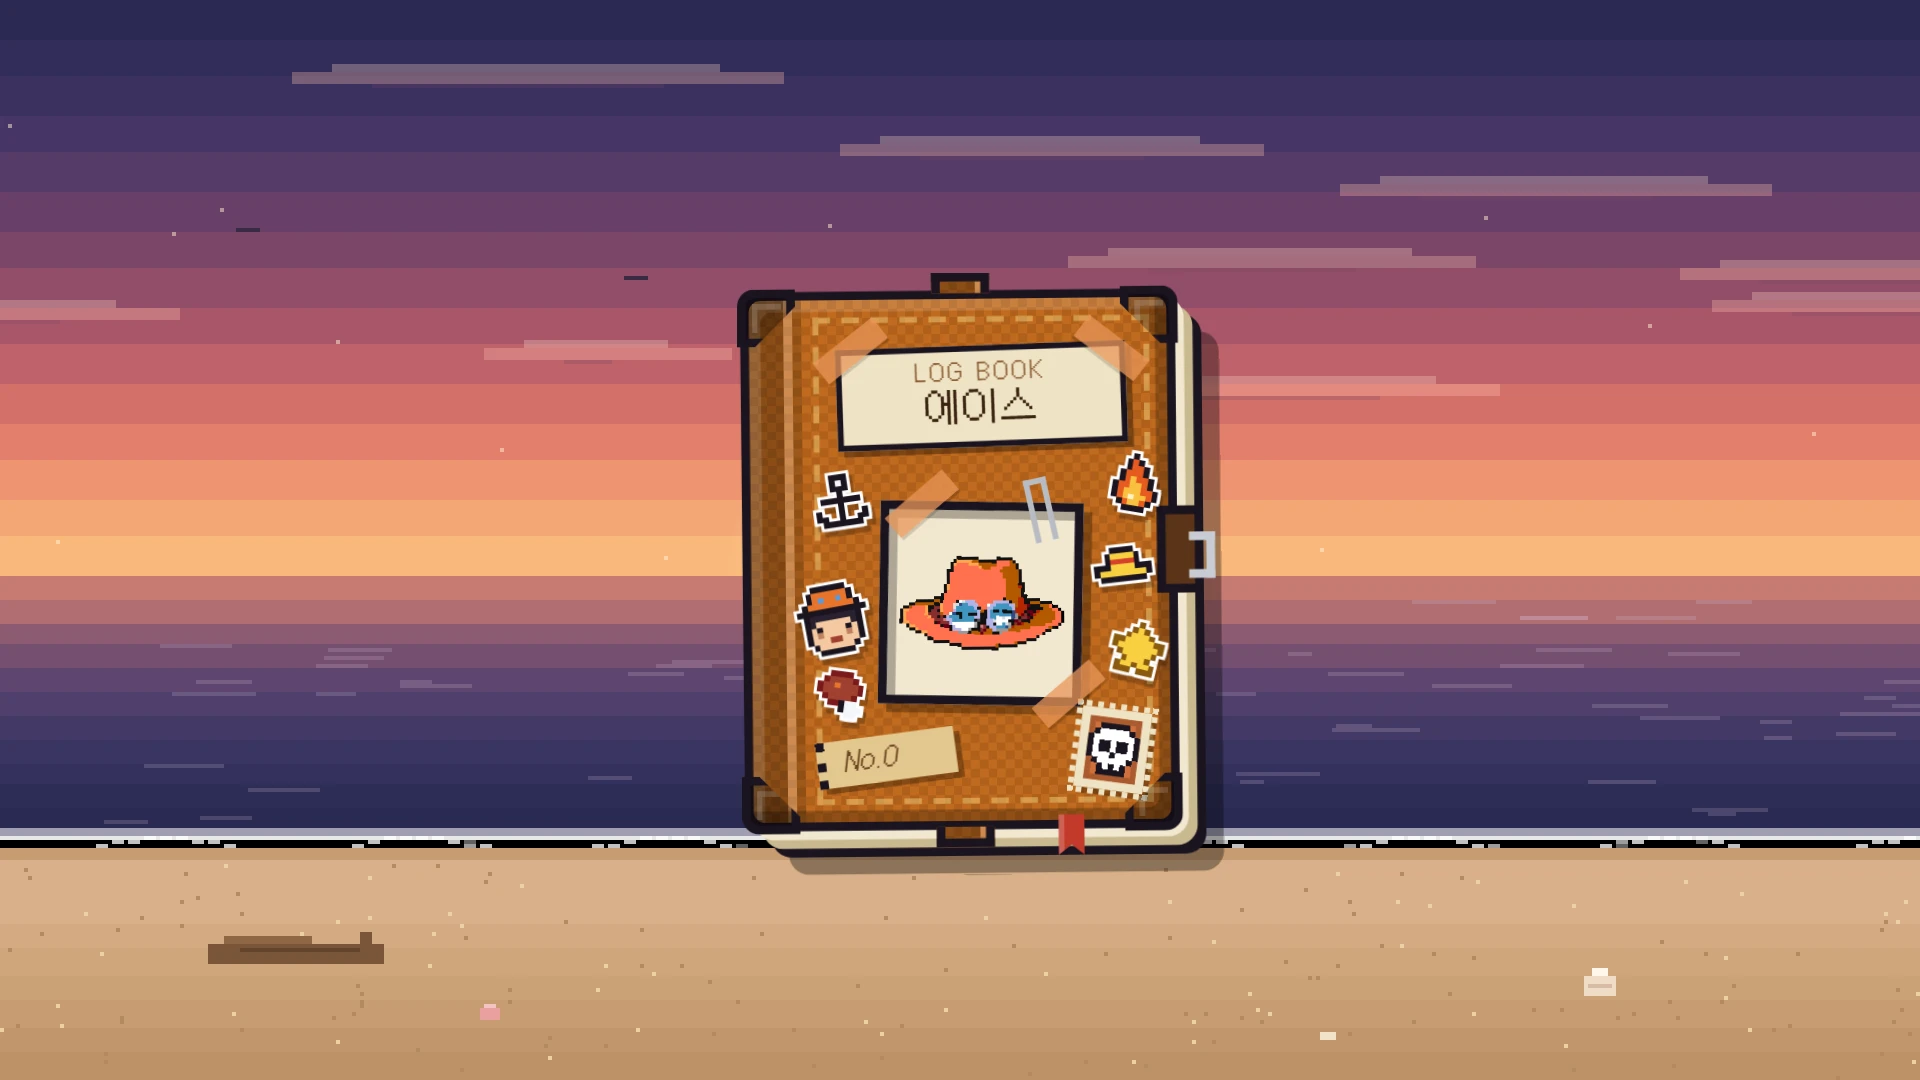
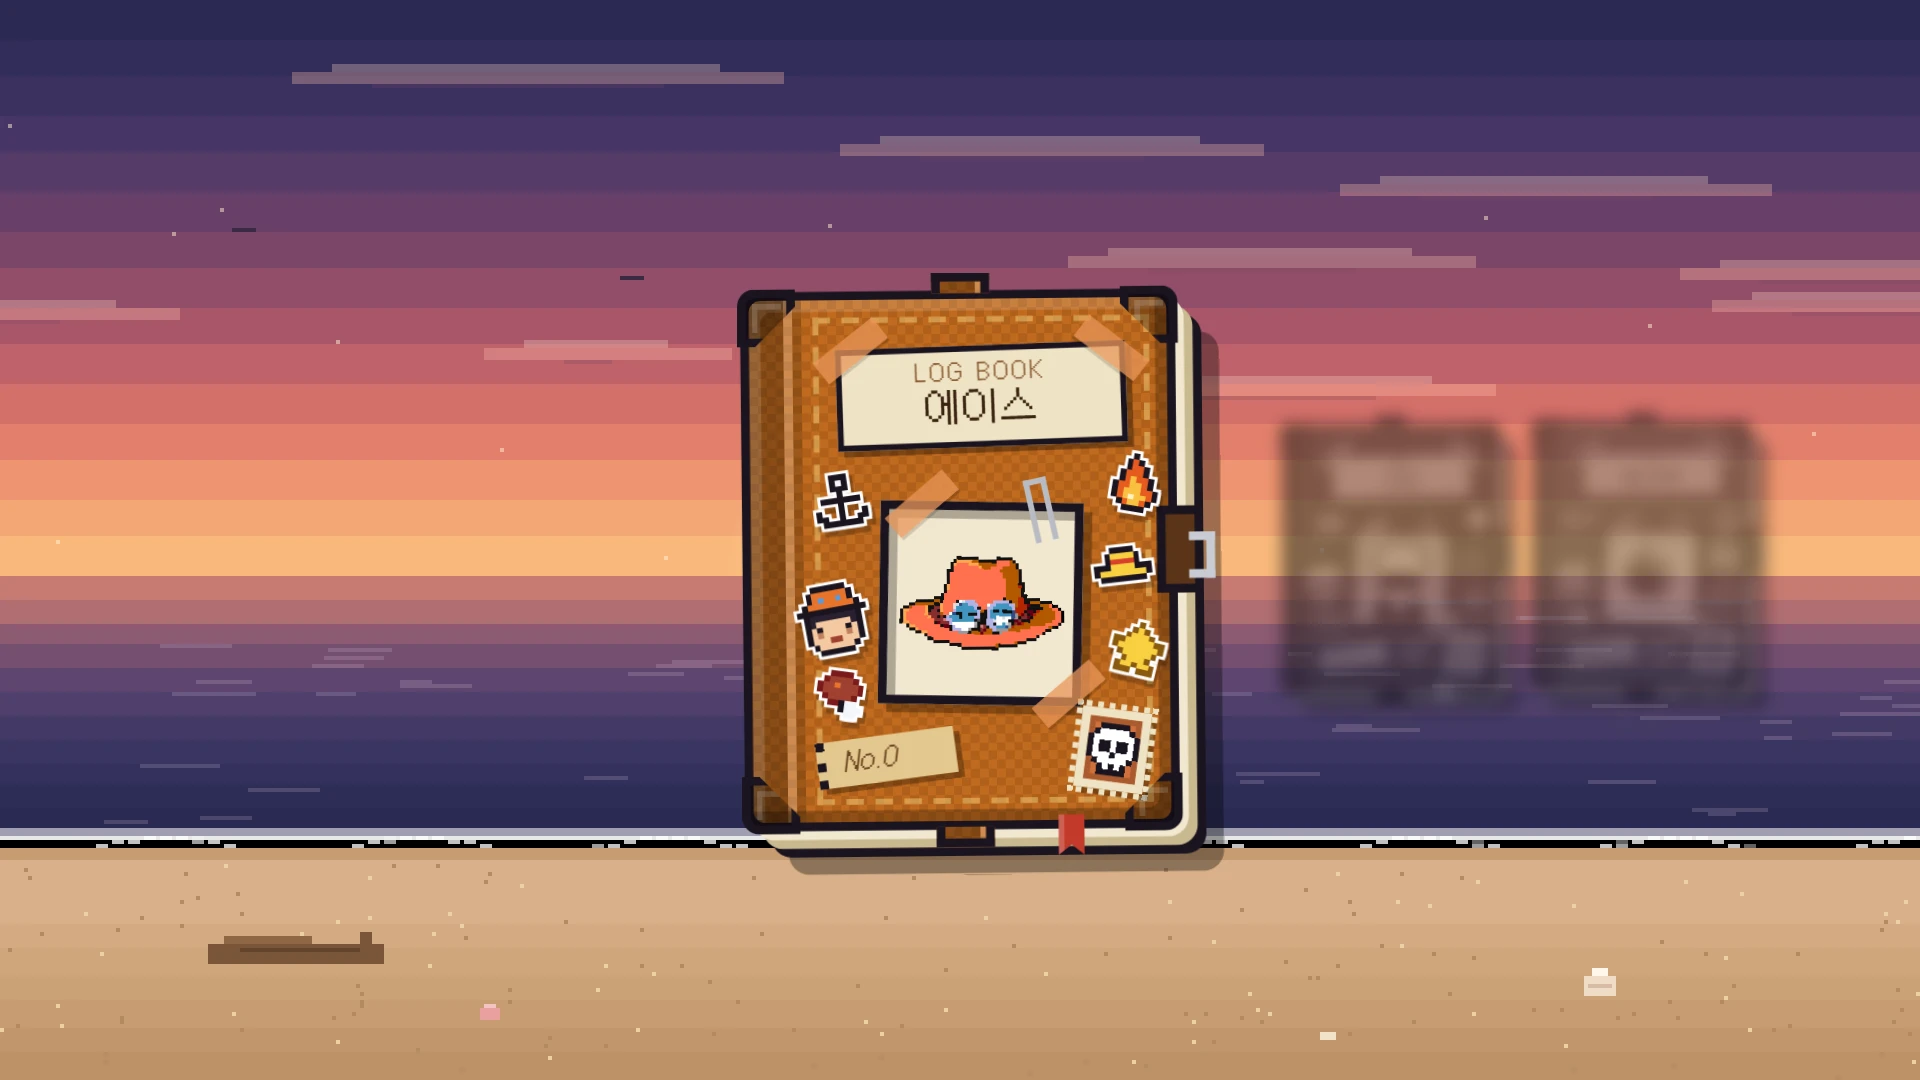
Intro page: all-logbooks beach scene, faster hero slides, memories header left like other sections

Changed region(s): [[0.6562, 0.3667, 0.9375, 0.6722]]

diff --git a/about/index.html b/about/index.html
@@ -46,7 +46,7 @@ h2{font-weight:normal;font-size:clamp(28px,min(3.4vw,5.6vh),50px);line-height:1.
 /* 1 첫 화면: 게임 장면이 천천히 바뀜 */
 .hero{position:relative;min-height:calc(100vh - var(--nav) - 31px);display:flex;align-items:flex-end;justify-content:center;text-align:center;overflow:hidden;padding:0;background:#120f1e}
 .slides{position:absolute;inset:0}
-.sl{position:absolute;inset:0;background-size:cover;background-position:center;image-rendering:pixelated;opacity:0;transition:opacity .9s ease}
+.sl{position:absolute;inset:0;background-size:cover;background-position:center;image-rendering:pixelated;opacity:0;transition:opacity .7s ease}
 .sl.on{opacity:1}
 .hero::after{content:'';position:absolute;inset:0;background:radial-gradient(ellipse at 50% 70%,rgba(14,12,22,.72) 0%,rgba(14,12,22,.35) 55%,rgba(14,12,22,.15) 100%),linear-gradient(transparent 55%,var(--bg) 100%);z-index:1}
 .hero .in{position:relative;z-index:2;padding:0 24px clamp(80px,13vh,140px);max-width:1100px;display:flex;flex-direction:column;align-items:center}
@@ -86,7 +86,7 @@ h2{font-weight:normal;font-size:clamp(28px,min(3.4vw,5.6vh),50px);line-height:1.
 
 /* 4 캐릭터 고르기: 게임 속 로그북 그대로 + 가운데 정렬 */
 #memories{background:var(--bg2)}
-.mem{display:grid;grid-template-columns:auto minmax(0,600px);gap:clamp(60px,9vw,160px);align-items:center;justify-content:center}
+.mem{display:grid;grid-template-columns:auto minmax(0,1fr);gap:clamp(50px,7vw,120px);align-items:center;margin-top:clamp(22px,4vh,44px)}
 .book{position:relative;height:min(48vh,500px);aspect-ratio:974/1205}
 .book img.cv{width:100%;height:100%;image-rendering:pixelated;filter:drop-shadow(10px 14px 0 rgba(0,0,0,.4))}
 .book .tint,.book .plate,.book .qm,.book .lock{display:none}
@@ -347,6 +347,8 @@ footer .disc{max-width:min(1440px,92vw);margin:28px auto 0;padding-top:20px;bord
 <!-- 4 캐릭터 -->
 <section id="memories">
   <div class="wrap">
+    <div class="kicker">MEMORIES</div>
+    <h2>누구의 기억을 펼치시겠습니까?</h2>
     <div class="mem" id="mem">
       <div class="book" id="book">
         <img class="cv" id="bkImg" src="img/book_ace.png" alt="로그북">
@@ -355,8 +357,6 @@ footer .disc{max-width:min(1440px,92vw);margin:28px auto 0;padding-top:20px;bord
         <div class="qm">?</div><div class="lock">🔒</div>
       </div>
       <div class="info">
-        <div class="kicker">MEMORIES</div>
-        <h2>누구의 기억을<br>펼치시겠습니까?</h2>
         <div class="who">
           <div class="src" id="memSrc"></div>
           <h3 id="memName"></h3>
@@ -498,7 +498,7 @@ footer .disc{max-width:min(1440px,92vw);margin:28px auto 0;padding-top:20px;bord
 // 첫 화면: 게임 장면 바꾸기 (사라졌다가 나타나기)
 (function(){const sl=[...document.querySelectorAll('.sl')];let k=0;
   if(matchMedia('(prefers-reduced-motion:reduce)').matches)return;
-  setInterval(()=>{sl[k].classList.remove('on');k=(k+1)%sl.length;sl[k].classList.add('on');},3500);})();
+  setInterval(()=>{sl[k].classList.remove('on');k=(k+1)%sl.length;sl[k].classList.add('on');},2500);})();
 
 // 캐릭터 고르기 (로그북)
 const MEM=[
